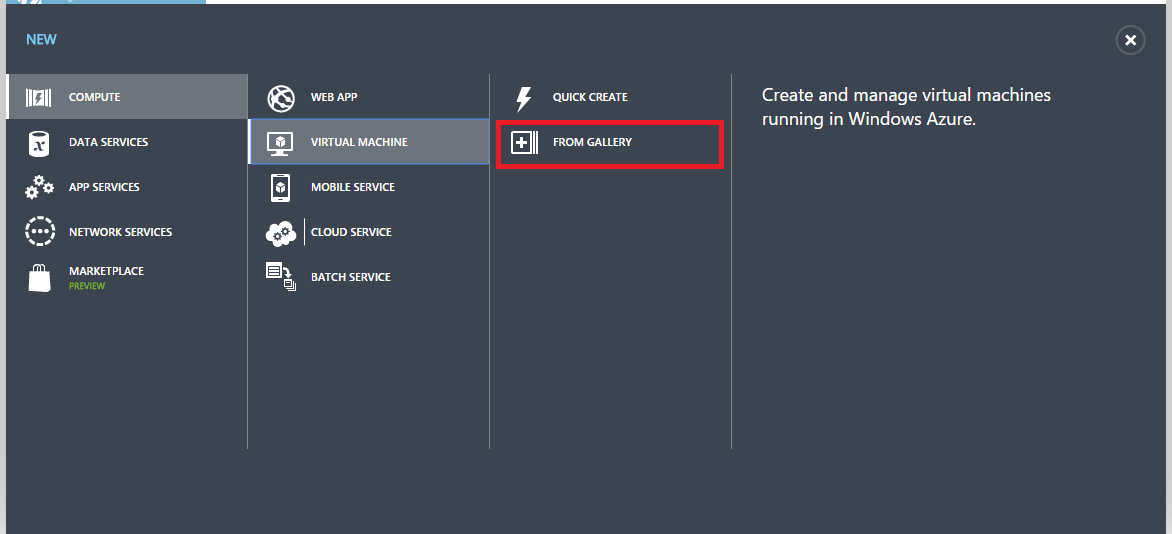
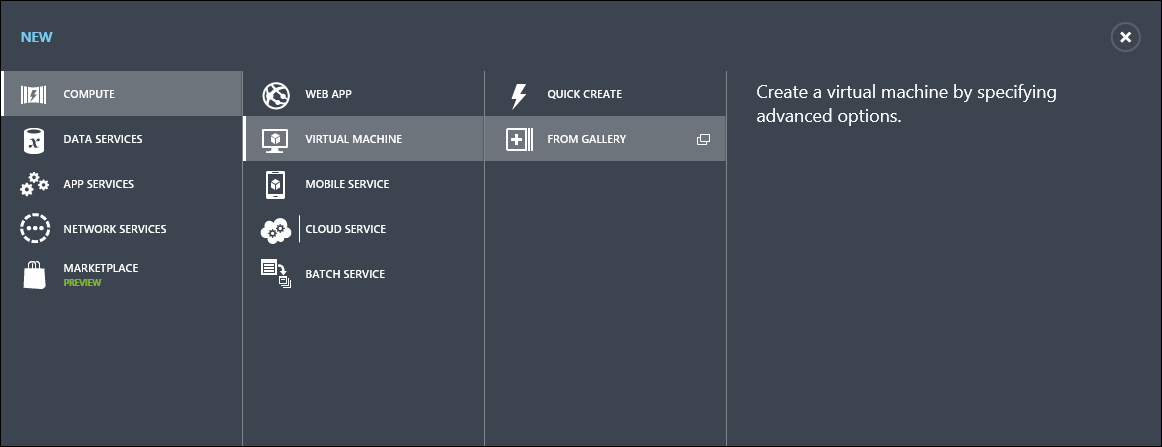
Updating Azure Setup Doc

Changed region(s): [[0.0, 0.0, 1.0, 1.0], [0.2169, 0.5817, 0.3408, 0.6398]]

diff --git a/virtualization/windowscontainers/quick_start/azure_setup.md b/virtualization/windowscontainers/quick_start/azure_setup.md
@@ -7,46 +7,37 @@ Before creating and managing Windows Containers the Windows Server 2016 Technica
 
 To run Windows Server Containers in a local virtual machine instead, follow [these instructions](./container_setup.md).
 
-## Start using Azure Portal
-If you have an Azure account and use Azure Portal, skip straight to [creating a container host](#CreateacontainerhostVM).
+## Start Using Azure Portal
+If you have an Azure account and use Azure Portal, skip straight to [Create a Container Host VM](#CreateacontainerhostVM).
 
 1. Go to [azure.com](https://azure.microsoft.com) and follow the steps for an [Azure Free Trial](https://azure.microsoft.com/en-us/pricing/free-trial/).
 2. Sign in with your Microsoft account.
 3. You should now be logged into the [Azure Management Portal](https://manage.windowsazure.com/).
 
-## Create a container host VM
+## Create a Container Host VM
 Create and configure a new virtual machine through Azure Gallery.
 
-1. click on "New" (in the bottom left hand corner of the page).  
-  From there:  Compute > Virtual Machine > From Gallery.
+Click on New > Compute > Virtual Machine > From Gallery
 
-  That should look something like this:  
-  ![](./media/CreateAzureVM.png)
+![](./media/CreateAzureVM.png)
 
-2. On the ‘choose an image’ menu, select ‘Windows Server Container Preview’.  
-  ![](media/AzureGallery.png)
+Select a name for the Virtual Machine, select a size, user name and Password.
 
-3. Add Port 80 as an endpoint.
-  On page 3 of the Create a Virtual Machine guide, there is a configuration option to set endpoints.
+![](./media/Create_vm2.png)
+
+On the ‘Choose an Image’ menu, select ‘Windows Server Container Preview’.
+
+![](media/AzureGallery.png)
+
+On page 3 of the Create a Virtual Machine wizard there is an option to configure an Endpoint. Endpoints are used to map a VM port (internal) to a port that is exposed to the internet (external). During the Windows Server Container quick starts you will host a website in your container and access this website through port 80. You will need to create an endpoint to allow internet traffic to access this VM through port 80.
+
+Select HTTP from the ‘Enter or Select Value’ drop down. 
+ 
+![](media/AzurePorts.png)
+
+Keep the default on the following page and select the check mark to create the Virtual Machine.
   
-  Our quick start guide shows you how to create a web server in a container.  You can simplify the quick start by opening port 80 right now.  
-  Port 80 is named "HTTP" in the Name dropdown.
-  
-  ![](media/AzurePorts.png)
-  
-4. **Setup script?**
-
-5. Create your virtual machine!
-
-##  Windows Containers Preparation in Azure
-
-1.  Dowload a script from somewhere?  I'm guessing this is the script you'd use to install containers on your own VM...
-
-.  
-.  
-.  
-
-6.  Enter your password.  
+![](media/create_vm3.PNG)
 
 Now you have a Windows Server Core virtual machine in Azure running Docker and Windows Server Containers!
   
@@ -56,10 +47,6 @@ Jump to the following quick starts to begin containerizing applications and mana
 
 [Quick Start: Windows Server Containers and PowerShell](./manage_powershell.md)  
 [Quick Start: Windows Server Containers and Docker](./manage_docker.md) 
-
-The Docker and PowerShell guides both walk through containerizing a web server and performing equivalent management tasks.  Use whichever toolset you prefer. 
-
 -------------------
+[Back to Container Home](../containers_welcome.md)  
 [Known Issues for Current Release](../about/work_in_progress.md)
-
-[Back to Container Home](../containers_welcome.md)
